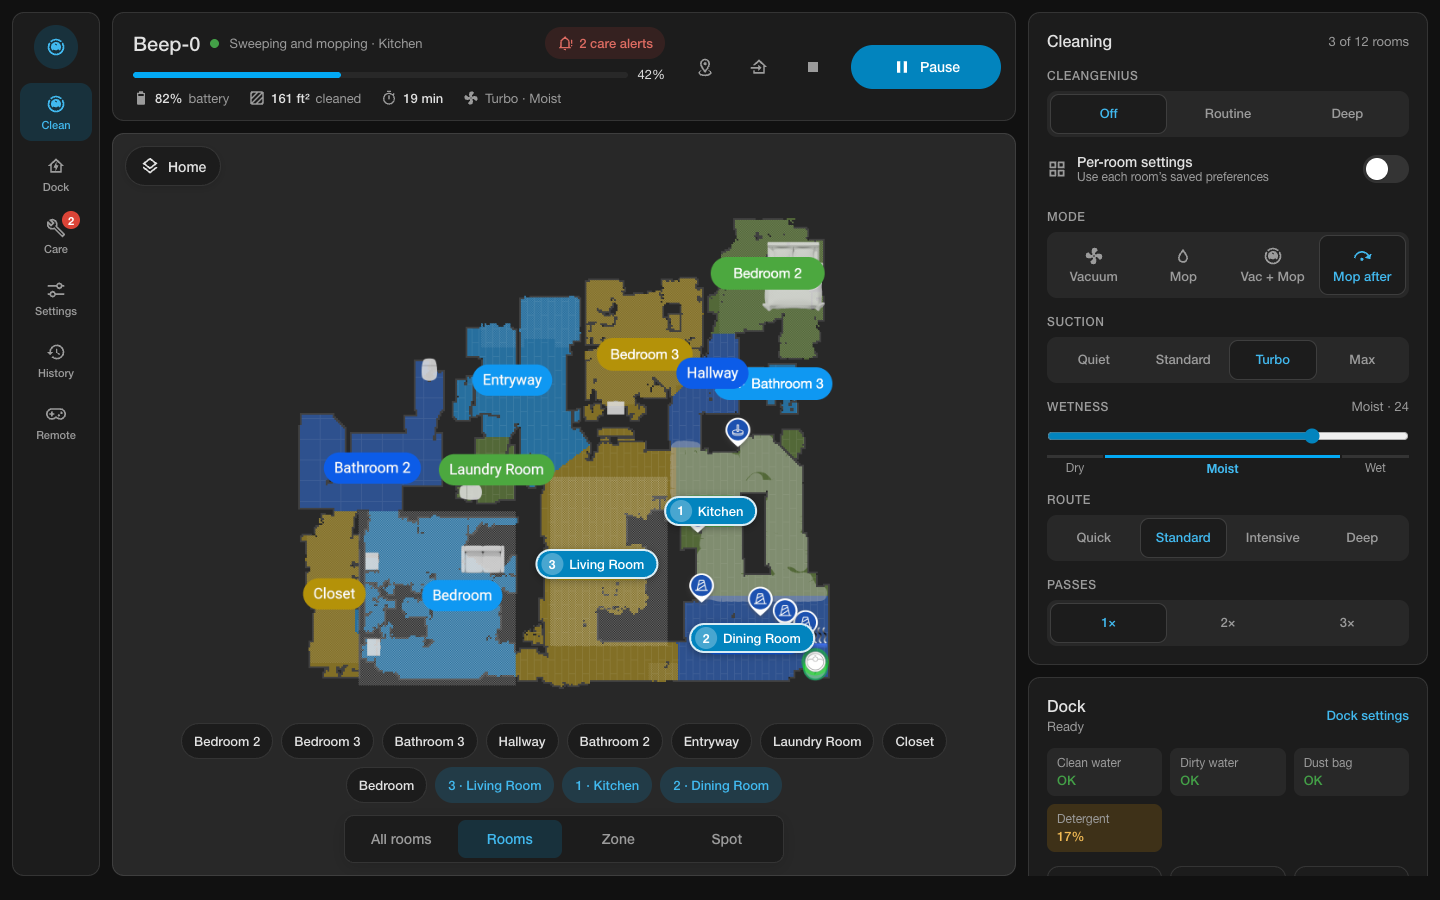
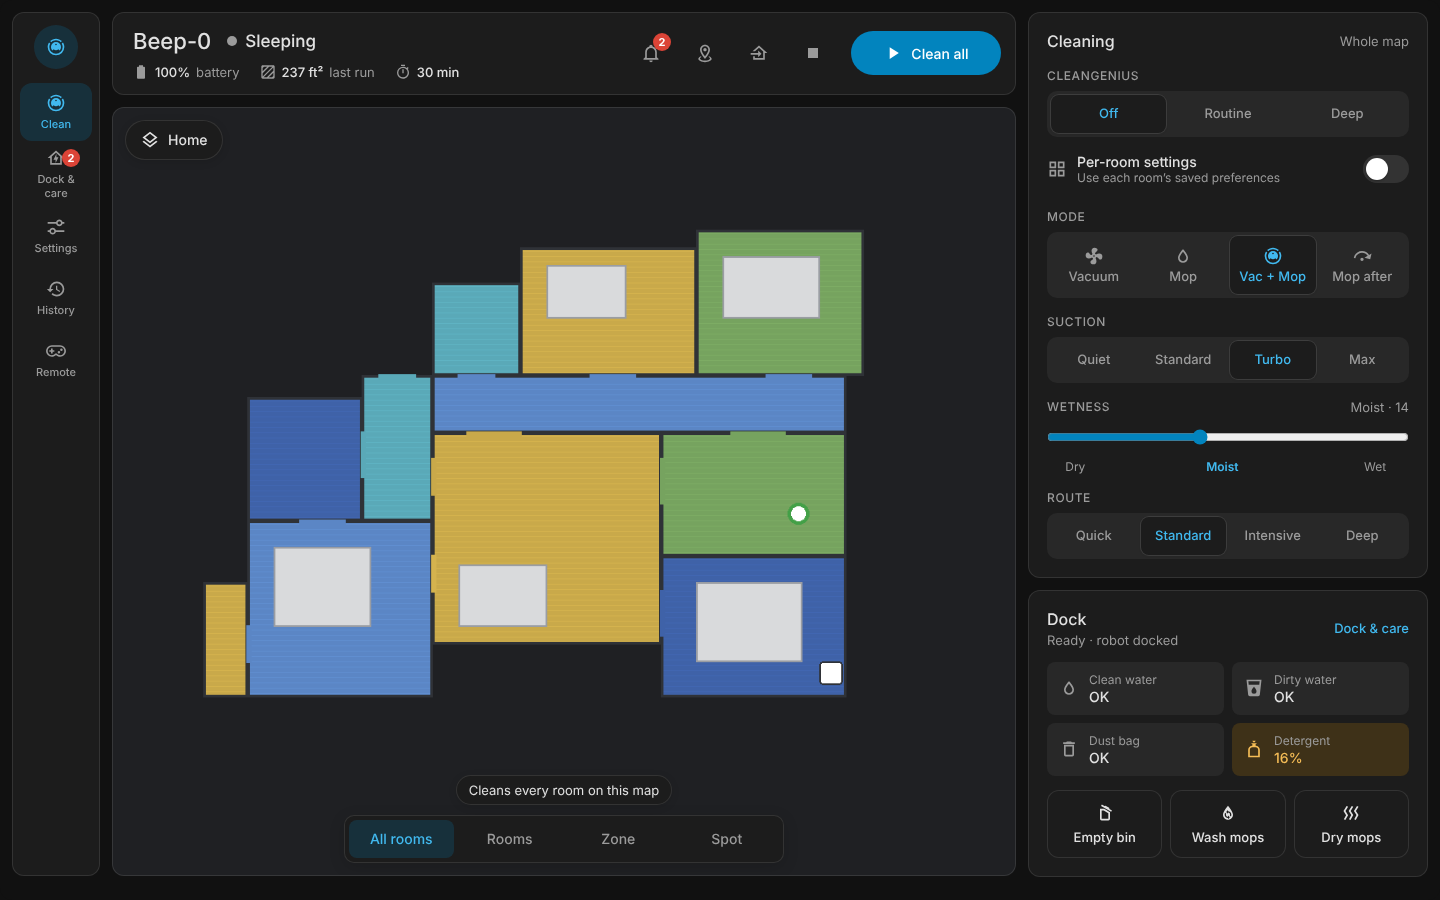
Retake README screenshots for 0.3.0 and add a screenshot tool
- New screenshots of the status bar, Dock & care and the settings menu, on a made-up floor plan
- More screenshots (dark theme, zone, Dock & care, settings, phone settings) in a collapsible section
- Absolute image URLs so the README renders inside HACS
- Troubleshooting notes for System › More and hidden parts
- tools/screenshots: floor-plan generator, icon table builder, test page and Playwright runner

Claude-Session: https://claude.ai/code/session_01JkJ5L16LYXQ1AvsDuBsQQk

diff --git a/tools/screenshots/harness.html b/tools/screenshots/harness.html
@@ -1,0 +1,129 @@
+<!doctype html>
+<html><head><meta charset="utf-8"><meta name="viewport" content="width=device-width">
+<style>
+  html,body{margin:0}
+  body{font-family:Inter,sans-serif;background:var(--primary-background-color)}
+  body.light{--primary-color:#03a9f4;--primary-background-color:#fafafa;--secondary-background-color:#e5e5e5;--card-background-color:#fff;--primary-text-color:#212121;--secondary-text-color:#727272;--divider-color:rgba(0,0,0,.12)}
+  body.dark{--primary-color:#03a9f4;--primary-background-color:#111111;--secondary-background-color:#282828;--card-background-color:#1c1c1c;--primary-text-color:#e1e1e1;--secondary-text-color:#9b9b9b;--divider-color:rgba(225,225,225,.12);color-scheme:dark}
+  body{--ha-font-family-body:Inter,sans-serif}
+</style>
+<script>
+  // Stand-ins for Home Assistant's own elements.
+  let ICONS = {};
+  customElements.define('ha-card', class extends HTMLElement { connectedCallback() { this.style.display = 'block'; } });
+  customElements.define('ha-icon', class extends HTMLElement {
+    static get observedAttributes() { return ['icon']; }
+    connectedCallback() { this.draw(); }
+    attributeChangedCallback() { this.draw(); }
+    draw() {
+      const d = ICONS[this.getAttribute('icon')] || '';
+      this.innerHTML = `<svg viewBox="0 0 24 24" style="width:var(--mdc-icon-size,24px);height:var(--mdc-icon-size,24px);display:block;fill:currentColor"><path d="${d}"/></svg>`;
+    }
+  });
+</script>
+</head><body>
+<script type="module">
+const q = new URLSearchParams(location.search);
+const scene = q.get('scene') || 'clean';
+const dark = q.get('theme') === 'dark';
+document.body.className = dark ? 'dark' : 'light';
+ICONS = await (await fetch('icons.json')).json();
+const geo = await (await fetch('map.json')).json();
+await import('../../dist/dreame-vacuum-panel-card.js');
+
+const P = 'beep_0';
+const st = {}, ent = {};
+const NAMES = { dnd: 'DND', dnd_start: 'DND start', dnd_end: 'DND end', ai_obstacle_detection: 'AI obstacle detection', ai_obstacle_picture: 'AI obstacle picture', ai_obstacle_image_upload: 'AI obstacle image upload', ai_pet_detection: 'AI pet detection', ai_furniture_detection: 'AI furniture detection', off_peak_charging: 'Off-peak charging', off_peak_charging_start: 'Off-peak charging start', off_peak_charging_end: 'Off-peak charging end', self_clean: 'Self-clean', self_clean_area: 'Self-clean area', self_clean_by_zone: 'Self-clean by zone' };
+const nice = (k) => NAMES[k] || (k.charAt(0).toUpperCase() + k.slice(1)).replace(/_/g, ' ');
+const add = (id, state, attributes = {}) => {
+  const key = id.split('.')[1].slice(P.length + 1);
+  st[id] = { entity_id: id, state: String(state), attributes: { friendly_name: `Beep-0 ${nice(key)}`, ...attributes }, last_updated: '1' };
+  ent[id] = { device_id: 'dev' };
+};
+
+const running = ['clean', 'zone', 'tablet'].includes(scene);
+add(`vacuum.${P}`, running ? 'cleaning' : 'docked', {
+  status: running ? 'sweeping_and_mopping' : 'sleeping', running, battery: running ? 82 : 100, cleaning_progress: 42,
+  main_brush_left: 64, side_brush_left: 8, filter_left: 71, mop_pad_left: 38, detergent_left: 16, sensor_dirty_left: 87, silver_ion_left: 100,
+  low_water_warning: 'No warning', auto_empty_status: 'Idle', dust_bag_status: 'Installed', detergent_status: 'Installed',
+  clean_water_tank_status: 'Installed', dirty_water_tank_status: 'Installed', vacuum_state: running ? 'sweeping_and_mopping' : 'charging_completed',
+  selected_map: 'Home',
+});
+const parts = { main_brush: [64, 192], side_brush: [8, 16], filter: [71, 106], mop_pad: [38, 30], detergent: [16, 4], sensor_dirty: [87, 26] };
+for (const [k, [p, h]] of Object.entries(parts)) {
+  add(`sensor.${P}_${k}_left`, p, { unit_of_measurement: '%' });
+  add(`sensor.${P}_${k}_time_left`, h, { unit_of_measurement: k === 'detergent' ? 'd' : 'h' });
+}
+add(`sensor.${P}_status`, running ? 'Sweeping and mopping' : 'Sleeping');
+if (running) add(`sensor.${P}_current_room`, 'Kitchen');
+add(`sensor.${P}_cleaned_area`, running ? 161 : 237, { unit_of_measurement: 'ft²' });
+add(`sensor.${P}_cleaning_time`, running ? 19 : 30, { unit_of_measurement: 'min' });
+add(`sensor.${P}_total_cleaning_time`, 7260, { unit_of_measurement: 'min' });
+add(`sensor.${P}_cleaning_count`, 143);
+add(`sensor.${P}_total_cleaned_area`, 52310, { unit_of_measurement: 'ft²' });
+add(`sensor.${P}_first_cleaning_date`, '2025-03-14');
+
+const sel = (k, v, options) => add(`select.${P}_${k}`, v, { options });
+sel('cleangenius', 'off', ['off', 'routine_cleaning', 'deep_cleaning']);
+sel('cleaning_mode', 'sweeping_and_mopping', ['sweeping', 'mopping', 'sweeping_and_mopping', 'mopping_after_sweeping']);
+sel('suction_level', 'strong', ['quiet', 'standard', 'strong', 'turbo']);
+sel('mop_pad_humidity', 'moist', ['slightly_dry', 'moist', 'wet']);
+sel('cleaning_route', 'standard', ['quick', 'standard', 'intensive', 'deep']);
+sel('carpet_cleaning', 'adaptation', ['adaptation', 'remove_mop', 'vacuum_only']);
+sel('drying_time', '3h', ['2h', '3h', '4h']);
+sel('mop_wash_level', 'daily', ['water_saving', 'daily', 'deep']);
+sel('voice_assistant_language', 'english', ['english', 'german', 'french', 'spanish', 'italian']);
+sel('mop_pad_swing', 'auto', ['auto', 'off', 'daily', 'weekly']);
+sel('auto_recleaning', 'off', ['off', 'in_deep_mode', 'in_all_modes']);
+sel('auto_rewashing', 'in_deep_mode', ['off', 'in_deep_mode', 'in_all_modes']);
+sel('auto_empty_mode', 'standard', ['off', 'standard', 'high_frequency', 'low_frequency']);
+sel('map_rotation', '0', ['0', '90', '180', '270']);
+sel('selected_map', 'Home', ['Home']);
+add(`number.${P}_wetness_level`, 14, { min: 1, max: 32, step: 1 });
+add(`number.${P}_volume`, 60, { min: 0, max: 100, step: 1, unit_of_measurement: '%' });
+add(`number.${P}_self_clean_area`, 20, { min: 10, max: 35, step: 1, unit_of_measurement: 'm²' });
+add(`number.${P}_camera_light_brightness`, 40, { min: 0, max: 100, step: 1, unit_of_measurement: '%' });
+add(`switch.${P}_customized_cleaning`, 'off');
+'resume_cleaning carpet_boost obstacle_avoidance child_lock dnd multi_floor_map self_clean auto_drying auto_add_detergent auto_mount_mop voice_assistant cleaning_sequence self_clean_by_zone ai_obstacle_detection ai_obstacle_image_upload ai_obstacle_picture ai_pet_detection ai_furniture_detection fuzzy_obstacle_detection pet_picture pet_focused_detection fill_light collision_avoidance floor_direction_cleaning intensive_carpet_cleaning gap_cleaning_extension mopping_under_furnitures off_peak_charging human_follow max_suction_power streaming_voice_prompt clean_carpets_first camera_light_brightness_auto'
+  .split(' ').forEach((k, i) => add(`switch.${P}_${k}`, ['child_lock', 'human_follow', 'off_peak_charging', 'max_suction_power', 'fill_light', 'pet_picture'].includes(k) ? 'off' : 'on'));
+add(`time.${P}_dnd_start`, '22:00:00'); add(`time.${P}_dnd_end`, '08:00:00');
+add(`time.${P}_off_peak_charging_start`, '22:00:00'); add(`time.${P}_off_peak_charging_end`, '06:00:00');
+for (const k of ['reset_main_brush', 'reset_side_brush', 'reset_filter', 'reset_sensor', 'reset_mop_pad', 'reset_detergent', 'start_auto_empty', 'clear_warning', 'start_fast_mapping', 'self_clean', 'manual_drying', 'base_station_self_repair', 'base_station_cleaning', 'start_recleaning', 'reload_shortcuts', 'backup_saved_map'])
+  add(`button.${P}_${k}`, 'unknown');
+for (const [rid, r] of Object.entries(geo.rooms)) {
+  const opt = (k, v, o) => add(`select.${P}_room_${rid}_${k}`, v, { options: o, friendly_name: `Beep-0 ${r.name} ${nice(k).toLowerCase()}` });
+  opt('cleaning_mode', 'sweeping_and_mopping', ['sweeping', 'mopping', 'sweeping_and_mopping']);
+  opt('suction_level', 'standard', ['quiet', 'standard', 'strong', 'turbo']);
+  add(`number.${P}_room_${rid}_wetness_level`, 14, { min: 1, max: 32, step: 1 });
+  opt('cleaning_route', 'standard', ['quick', 'standard', 'intensive', 'deep']);
+  opt('cleaning_times', '1', ['1', '2', '3']);
+  opt('order', rid, Object.keys(geo.rooms));
+  opt('floor_material', 'wood', ['none', 'tile', 'wood']);
+}
+add(`camera.${P}_map`, 'idle', { entity_picture: dark ? 'map-dark.png' : 'map.png', calibration_points: geo.calibration_points, rooms: geo.rooms });
+
+const hass = {
+  states: st, entities: ent, devices: { dev: { name: 'Beep-0' } },
+  config: { unit_system: { length: 'mi', area: 'ft²' } }, callService: async () => {},
+};
+const card = document.createElement('dreame-vacuum-panel-card');
+card.setConfig({ entity: `vacuum.${P}`, fullscreen: false, height: '100vh' });
+document.body.append(card);
+card.hass = hass;
+
+const ui = card._ui;
+const rooms = Object.values(geo.rooms);
+const id = (n) => rooms.find((r) => r.name === n).room_id;
+({
+  clean: () => { ui.target = 'rooms'; ui.sel = [id('Kitchen'), id('Dining Room'), id('Living Room')]; },
+  tablet: () => { ui.target = 'rooms'; ui.sel = [id('Kitchen'), id('Dining Room')]; },
+  idle: () => {},
+  zone: () => { const r = geo.rooms[id('Living Room')]; ui.target = 'zone'; ui.passes = 2; ui.zone = [r.x0 + 600, r.y0 + 2500, r.x0 + 6200, r.y1 - 1200]; },
+  care: () => { ui.view = 'care'; },
+  settings: () => { ui.view = 'settings'; ui.setcat = q.get('cat'); },
+  dock: () => { ui.sheetTab = 'dock'; },
+  phone: () => { ui.target = 'rooms'; ui.sel = [id('Kitchen'), id('Hallway')]; },
+}[scene] || (() => {}))();
+card._schedule();
+</script>
+</body></html>

diff --git a/tools/screenshots/shoot.js b/tools/screenshots/shoot.js
@@ -1,0 +1,48 @@
+// Takes the README screenshots into docs/images. Run from the repo root:
+//   (cd tools/screenshots && python3 make-map.py)       draws the made-up floor plan
+//   npm pack @mdi/js && tar xzf mdi-js-*.tgz && node tools/screenshots/icons.js package
+//   PLAYWRIGHT=<path to playwright> node tools/screenshots/shoot.js
+const path = require('path');
+const http = require('http');
+const fs = require('fs');
+const { chromium } = require(process.env.PLAYWRIGHT || 'playwright');
+
+const root = path.resolve(__dirname, '../..');
+const out = path.join(root, 'docs/images');
+const SHOTS = [
+  ['desktop-light-clean', 1440, 900, 'scene=clean'],
+  ['desktop-dark-clean', 1440, 900, 'scene=idle&theme=dark'],
+  ['desktop-light-zone', 1440, 900, 'scene=zone'],
+  ['desktop-light-care', 1440, 900, 'scene=care'],
+  ['desktop-light-settings', 1440, 900, 'scene=settings&cat=dock'],
+  ['tablet-light-clean', 834, 1194, 'scene=tablet'],
+  ['phone-dark-clean', 390, 844, 'scene=phone&theme=dark'],
+  ['phone-dark-dock', 390, 844, 'scene=dock&theme=dark'],
+  ['phone-dark-care', 390, 844, 'scene=care&theme=dark'],
+  ['phone-dark-settings', 390, 844, 'scene=settings&theme=dark'],
+  ['phone-dark-settings-dock', 390, 844, 'scene=settings&cat=dock&theme=dark'],
+];
+
+const types = { '.html': 'text/html', '.js': 'text/javascript', '.json': 'application/json', '.png': 'image/png' };
+const server = http.createServer((req, res) => {
+  const file = path.join(root, decodeURIComponent(new URL(req.url, 'http://x').pathname));
+  if (!file.startsWith(root) || !fs.existsSync(file)) { res.writeHead(404); return res.end(); }
+  res.writeHead(200, { 'content-type': types[path.extname(file)] || 'application/octet-stream' });
+  fs.createReadStream(file).pipe(res);
+});
+
+server.listen(0, async () => {
+  const port = server.address().port;
+  const browser = await chromium.launch();
+  for (const [name, w, h, query] of SHOTS) {
+    const page = await browser.newPage({ viewport: { width: w, height: h }, deviceScaleFactor: 1, colorScheme: query.includes('dark') ? 'dark' : 'light' });
+    page.on('pageerror', (e) => console.error(name, e.message));
+    await page.goto(`http://localhost:${port}/tools/screenshots/harness.html?${query}`);
+    await page.waitForTimeout(900);
+    await page.screenshot({ path: path.join(out, `${name}.png`) });
+    await page.close();
+    console.log('saved', name);
+  }
+  await browser.close();
+  server.close();
+});

diff --git a/tools/screenshots/icons.js b/tools/screenshots/icons.js
@@ -1,0 +1,17 @@
+// Writes icons.json: every mdi: icon the card uses, as SVG path data, from @mdi/js.
+// Usage: node icons.js <path to unpacked @mdi/js package>
+const fs = require('fs');
+const path = require('path');
+const mdi = require(path.resolve(process.argv[2], 'commonjs/mdi.js'));
+const src = fs.readFileSync(path.join(__dirname, '../../dist/dreame-vacuum-panel-card.js'), 'utf8');
+const names = [...new Set(src.match(/mdi:[a-z0-9-]+/g))];
+const out = {};
+for (const n of names) {
+  const key = 'mdi' + n.slice(4).split('-').map((p) => p[0].toUpperCase() + p.slice(1)).join('');
+  if (mdi[key]) out[n] = mdi[key];
+  else console.warn('missing', n);
+}
+// battery icons are built at runtime (mdi:battery-80, mdi:battery-charging-80, ...)
+for (const k of Object.keys(mdi)) if (/^mdiBattery(Charging)?\d+$|^mdiBattery(Outline|Unknown)?$/.test(k)) out['mdi:' + k.slice(3).replace(/([A-Z0-9]+)/g, (m, g, i) => (i ? '-' : '') + g.toLowerCase()).replace(/([a-z])(\d)/g, '$1-$2')] = mdi[k];
+fs.writeFileSync(path.join(__dirname, 'icons.json'), JSON.stringify(out));
+console.log(Object.keys(out).length, 'icons');

diff --git a/tools/screenshots/make-map.py b/tools/screenshots/make-map.py
@@ -1,0 +1,70 @@
+"""Draws a made-up floor plan for the README screenshots and writes the room geometry.
+
+Output: map.png, map-dark.png and map.json (calibration points and rooms in vacuum millimetres).
+"""
+import json
+from PIL import Image, ImageDraw
+
+W, H = 900, 680
+MM = 50          # millimetres per pixel
+OX, OY = 60, 640  # pixel position of vacuum (0, 0); vacuum y grows upwards
+
+def to_mm(px, py):
+    return (px - OX) * MM, (OY - py) * MM
+
+BLUE, YELLOW, GREEN, TEAL, NAVY = '#5b86c5', '#c9a94a', '#76a35f', '#5aa9b8', '#3f62a8'
+# name, (x0, y0, x1, y1) in pixels, colour
+ROOMS = [
+    ('Living Room', (300, 300, 560, 540), YELLOW),
+    ('Kitchen', (560, 300, 770, 440), GREEN),
+    ('Dining Room', (560, 440, 770, 600), NAVY),
+    ('Hallway', (300, 235, 770, 300), BLUE),
+    ('Entryway', (220, 235, 300, 400), TEAL),
+    ('Bedroom', (90, 400, 300, 600), BLUE),
+    ('Bathroom', (90, 260, 220, 400), NAVY),
+    ('Closet', (40, 470, 90, 600), YELLOW),
+    ('Bedroom 2', (600, 70, 790, 235), GREEN),
+    ('Bedroom 3', (400, 90, 600, 235), YELLOW),
+    ('Bathroom 2', (300, 130, 400, 235), TEAL),
+]
+
+def draw(bg, out):
+  img = Image.new('RGB', (W, H), bg)
+  d = ImageDraw.Draw(img)
+  for _, (x0, y0, x1, y1), c in ROOMS:
+      d.rectangle((x0, y0, x1, y1), fill=c)
+  # light texture so the floor doesn't read as flat blocks
+  for _, (x0, y0, x1, y1), c in ROOMS:
+      for y in range(y0 + 4, y1, 6):
+          d.line((x0 + 2, y, x1 - 2, y), fill=tuple(min(255, int(v * 1.06)) for v in img.getpixel((x0 + 2, y0 + 2))), width=1)
+  # walls
+  for _, (x0, y0, x1, y1), _c in ROOMS:
+      d.rectangle((x0, y0, x1, y1), outline='#2f3237', width=3)
+  # doorways
+  for (x, y, w, h) in [(300, 330, 3, 40), (300, 440, 3, 40), (560, 330, 3, 50), (560, 480, 3, 50), (340, 300, 60, 3), (640, 300, 60, 3),
+                       (220, 300, 3, 50), (150, 400, 50, 3), (90, 520, 3, 40), (680, 235, 50, 3), (480, 235, 50, 3), (330, 235, 40, 3), (240, 235, 40, 3)]:
+      d.rectangle((x - 1, y - 1, x + w + 1, y + h + 1), fill=img.getpixel((x + w // 2 + (4 if h > w else 0), y + h // 2 + (4 if w > h else 0))))
+  # furniture
+  for box in [(330, 450, 430, 520), (600, 470, 720, 560), (120, 430, 230, 520), (630, 100, 740, 170), (430, 110, 520, 170)]:
+      d.rectangle(box, fill='#d9dadc', outline='#9a9da3', width=2)
+  # dock and robot
+  d.rounded_rectangle((740, 560, 766, 586), 4, fill='#ffffff', outline='#2f3237', width=2)
+  d.ellipse((704, 380, 728, 404), fill='#ffffff', outline='#43a047', width=4)
+  img.save(out)
+
+draw('#e6e7e9', 'map.png')
+draw('#1f2023', 'map-dark.png')
+
+def corner(px, py):
+    x, y = to_mm(px, py)
+    return {'x': x, 'y': y}
+
+rooms = {}
+for i, (name, (x0, y0, x1, y1), _c) in enumerate(ROOMS, start=1):
+    a, b = to_mm(x0, y1), to_mm(x1, y0)
+    cx, cy = to_mm((x0 + x1) / 2, (y0 + y1) / 2)
+    rooms[str(i)] = {'room_id': i, 'name': name, 'x': cx, 'y': cy, 'x0': a[0], 'y0': a[1], 'x1': b[0], 'y1': b[1]}
+cal = [{'vacuum': {'x': 0, 'y': 0}, 'map': {'x': OX, 'y': OY}},
+       {'vacuum': {'x': 10000, 'y': 0}, 'map': {'x': OX + 10000 / MM, 'y': OY}},
+       {'vacuum': {'x': 0, 'y': 10000}, 'map': {'x': OX, 'y': OY - 10000 / MM}}]
+json.dump({'calibration_points': cal, 'rooms': rooms}, open('map.json', 'w'), indent=1)

diff --git a/README.md b/README.md
@@ -13,11 +13,38 @@ own way back out. See [What's new](CHANGELOG.md).
 
 [![hacs][hacs-badge]][hacs-url] ![license][license-badge]
 
-![Desktop layout](docs/images/desktop-light-clean.png)
+![Desktop layout](https://raw.githubusercontent.com/The-Croz/dreame-vacuum-panel-card/main/docs/images/desktop-light-clean.png)
 
 | Tablet | Phone | Phone · Dock |
 | --- | --- | --- |
-| ![Tablet](docs/images/tablet-light-clean.png) | ![Phone](docs/images/phone-dark-clean.png) | ![Phone dock tab](docs/images/phone-dark-dock.png) |
+| ![Tablet](https://raw.githubusercontent.com/The-Croz/dreame-vacuum-panel-card/main/docs/images/tablet-light-clean.png) | ![Phone](https://raw.githubusercontent.com/The-Croz/dreame-vacuum-panel-card/main/docs/images/phone-dark-clean.png) | ![Phone dock tab](https://raw.githubusercontent.com/The-Croz/dreame-vacuum-panel-card/main/docs/images/phone-dark-dock.png) |
+
+<details>
+<summary><b>More screenshots</b></summary>
+
+**Dark theme**
+
+![Desktop, dark theme](https://raw.githubusercontent.com/The-Croz/dreame-vacuum-panel-card/main/docs/images/desktop-dark-clean.png)
+
+**Zone cleaning:** drag on the map to draw a zone, then pick 1–3 passes.
+
+![Zone cleaning](https://raw.githubusercontent.com/The-Croz/dreame-vacuum-panel-card/main/docs/images/desktop-light-zone.png)
+
+**Dock & care:** dock status, actions and settings next to parts and lifetime totals.
+
+![Dock and care](https://raw.githubusercontent.com/The-Croz/dreame-vacuum-panel-card/main/docs/images/desktop-light-care.png)
+
+**Settings:** a menu of categories next to the open category.
+
+![Settings](https://raw.githubusercontent.com/The-Croz/dreame-vacuum-panel-card/main/docs/images/desktop-light-settings.png)
+
+| Phone · Dock & care | Phone · Settings | Phone · Settings › Dock |
+| --- | --- | --- |
+| ![Phone dock and care](https://raw.githubusercontent.com/The-Croz/dreame-vacuum-panel-card/main/docs/images/phone-dark-care.png) | ![Phone settings menu](https://raw.githubusercontent.com/The-Croz/dreame-vacuum-panel-card/main/docs/images/phone-dark-settings.png) | ![Phone dock settings](https://raw.githubusercontent.com/The-Croz/dreame-vacuum-panel-card/main/docs/images/phone-dark-settings-dock.png) |
+
+The screenshots use a made-up floor plan. To retake them, see [`tools/screenshots`](tools/screenshots/shoot.js).
+
+</details>
 
 ## Features
 
@@ -179,7 +206,11 @@ Things we found while testing on a real robot (Dreame with a self-wash, auto-emp
 - **Selections land in the wrong place.** The card uses the camera's `calibration_points`.
   If you rotate the map in the integration, give the camera a moment to update.
 - **A setting is missing.** Check that the entity is enabled in **Settings → Entities**.
-  Disabled entities are skipped.
+  Disabled entities are skipped. Settings the card doesn't recognise are listed under
+  **System › More**.
+- **A part is missing from Dock & care.** The card lists a part only when the integration
+  creates a sensor for it (`sensor.<name>_<part>_left`), so parts your model doesn't have stay
+  hidden. If yours is missing, check that its sensor is enabled.
 
 ## Roadmap
 
